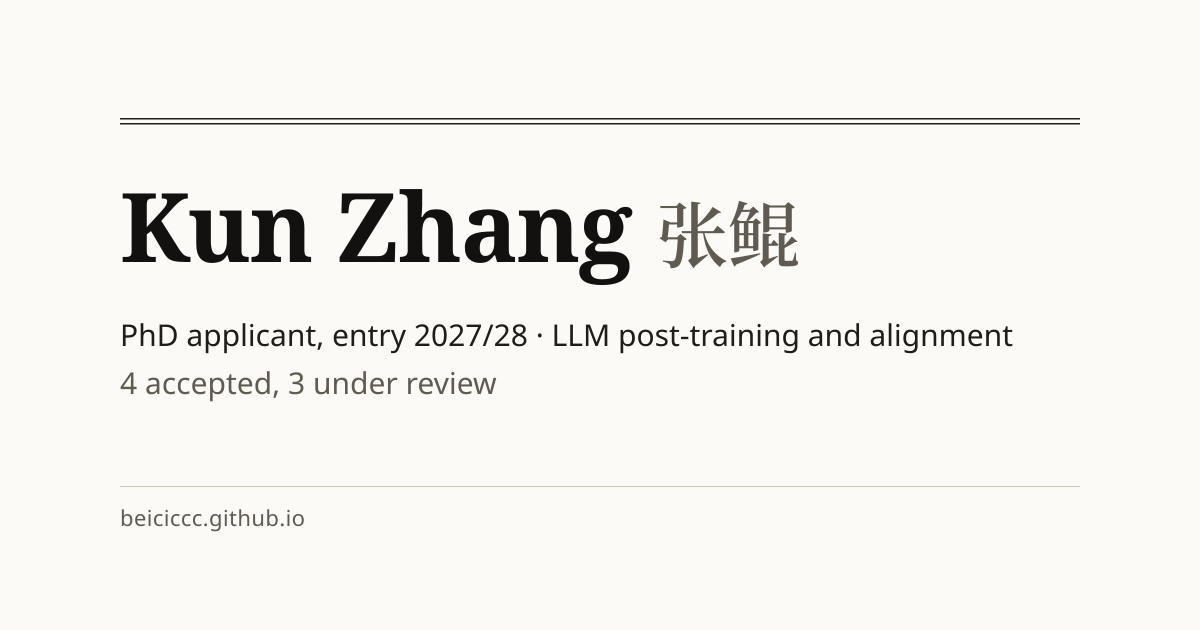
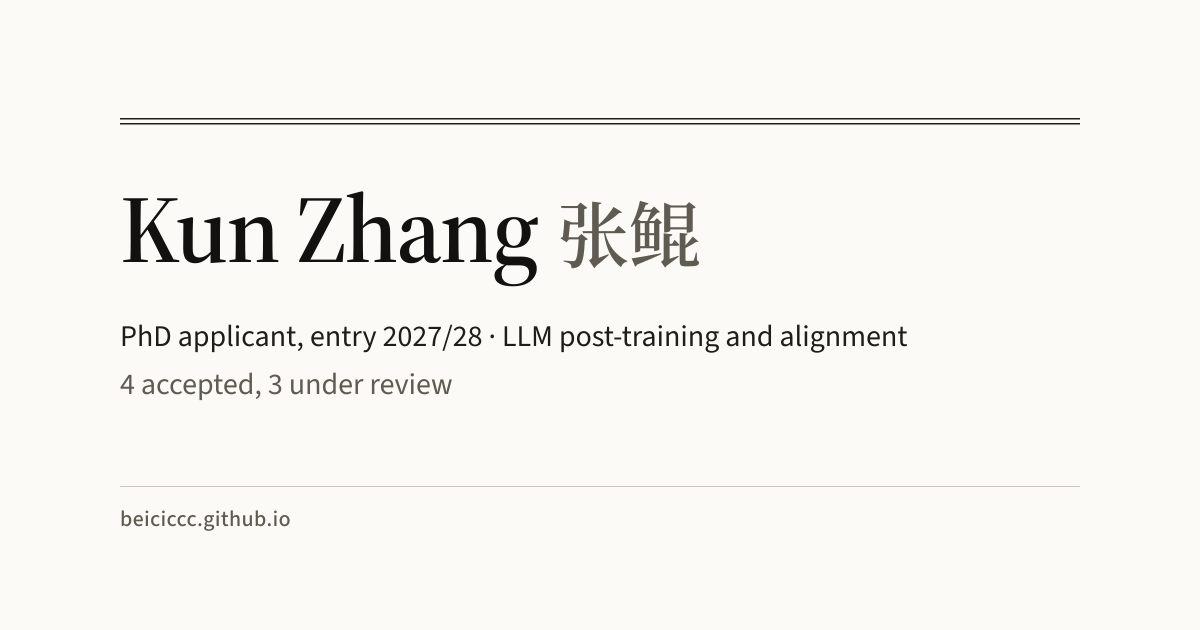
版面收尾：左栏节标题随节 sticky，主题按钮图标改内联 SVG，OG 图改用 Source Serif 4 / Source Sans 3 渲染

Changed region(s): [[0.0925, 0.3016, 0.6783, 0.4524], [0.0925, 0.5127, 0.8633, 0.6333], [0.0925, 0.8143, 0.2467, 0.8444]]

diff --git a/version1/src/styles/global.css b/version1/src/styles/global.css
@@ -364,7 +364,16 @@ hr { border: 0; height: 1px; background: var(--hairline); margin: var(--space-7)
     text-align: right;
     margin: 0;
     padding-top: 0.2rem;     /* cap-height of the 15.75px label ≈ first line of the lede */
+    /* The head travels with its section: its grid area spans the whole body,
+       so sticky keeps it in view until the section ends. An opaque ground
+       lets the hanging [n] numbers pass beneath it. */
+    position: sticky;
+    top: calc(var(--nav-h) + var(--space-5));
+    z-index: 1;
+    background: var(--bg);
+    padding-bottom: var(--space-2);
   }
+  .section--tint.section--rail .section__inner > h2 { background: var(--bg-alt); }
   .section--rail .section__body { grid-column: 2; grid-row: 1; }
 
   /* Hanging apparatus: the body becomes a subgrid so [n], the Research
@@ -469,6 +478,7 @@ body.scrolled .site-header { border-bottom-color: var(--hairline); }
   font-size: 1rem;
 }
 .toggle__theme [data-icon] { display: none; }
+.toggle__theme svg[data-icon] { width: 14px; height: 14px; vertical-align: -0.12em; }
 .toggle__theme:not([data-state]) [data-icon="system"],
 .toggle__theme[data-state="system"] [data-icon="system"] { display: inline; }
 .toggle__theme[data-state="light"] [data-icon="sun"]  { display: inline; }
@@ -1155,7 +1165,7 @@ pre code { background: none; border: none; padding: 0; color: inherit; }
   .section--tint { background: none; border-top: 1px solid var(--hairline); }
   h1 { font-size: 22pt; margin-bottom: 8pt; }
   h2 { break-after: avoid; }
-  .section--rail .section__inner > h2 { margin-bottom: 10pt; }
+  .section--rail .section__inner > h2 { margin-bottom: 10pt; position: static; background: none; }
   .hero__tagline { font-size: 13pt; }
   .pub, .theme, .contact__item { break-inside: avoid; }
   .pub--review { border-color: var(--hairline); }
